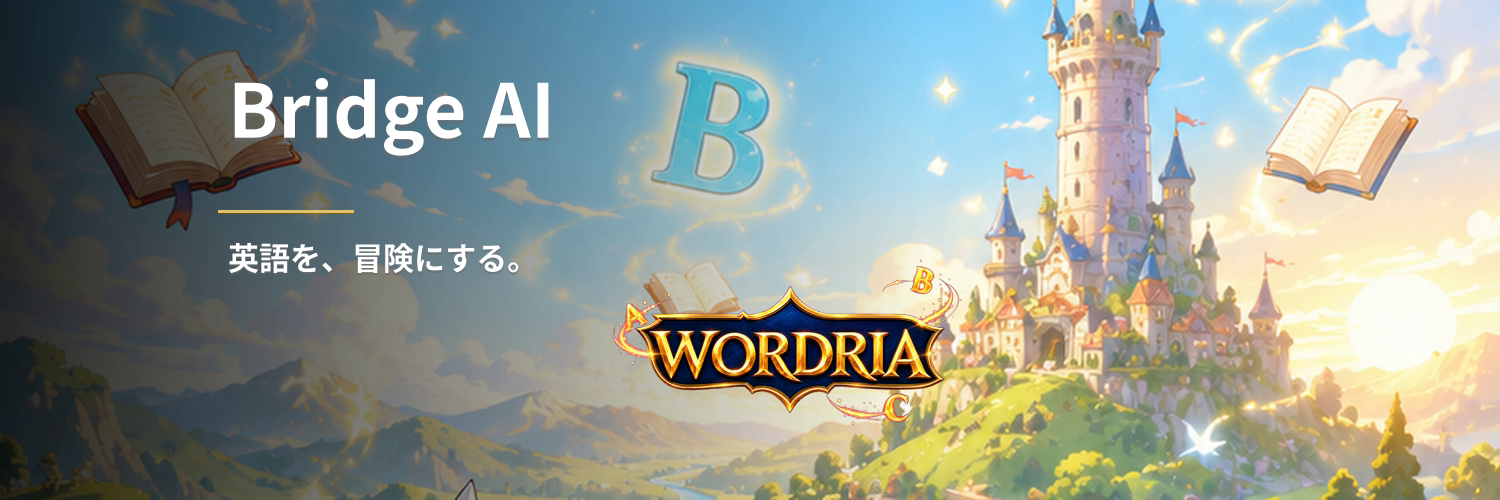
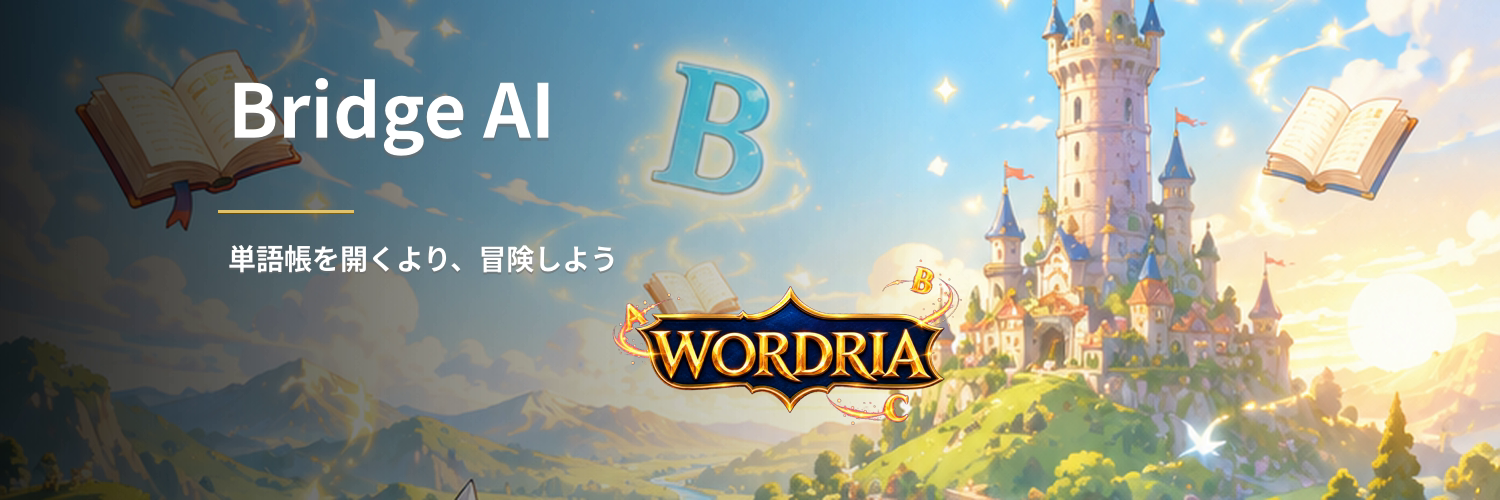
X のヘッダー：キャッチコピーを本来のものに直した
「英語を、冒険にする。」→「単語帳を開くより、冒険しよう」。
14文字あってロゴに当たるので、31px から 28px に下げた
(右端が約620px で、ロゴの左端の手前で収まる)。

Claude-Session: https://claude.ai/code/session_01FnVhb4STeLenZzKBowdTQv

Changed region(s): [[0.1533, 0.48, 0.4293, 0.57]]

diff --git a/tools/make_x_header.js b/tools/make_x_header.js
@@ -80,9 +80,10 @@ var filter = [
     ":shadowcolor=black@0.45:shadowx=0:shadowy=3[t1]",
   // 金の罫。細い線を1本
   "[t1]drawbox=x=218:y=210:w=136:h=3:color=" + GOLD + "@0.95:t=fill[t2]",
-  // 英語を、冒険にする。
+  // 単語帳を開くより、冒険しよう
+  // 14文字あるのでロゴに当たらない大きさにしてある(28px で右端は約620px)
   "[t2]drawtext=" + fontOpt +
-    ":text='英語を、冒険にする。':fontcolor=white:fontsize=31:x=228:y=243" +
+    ":text='単語帳を開くより、冒険しよう':fontcolor=white:fontsize=28:x=228:y=245" +
     ":shadowcolor=black@0.45:shadowx=0:shadowy=2[out]"
 ].join(";");
 
